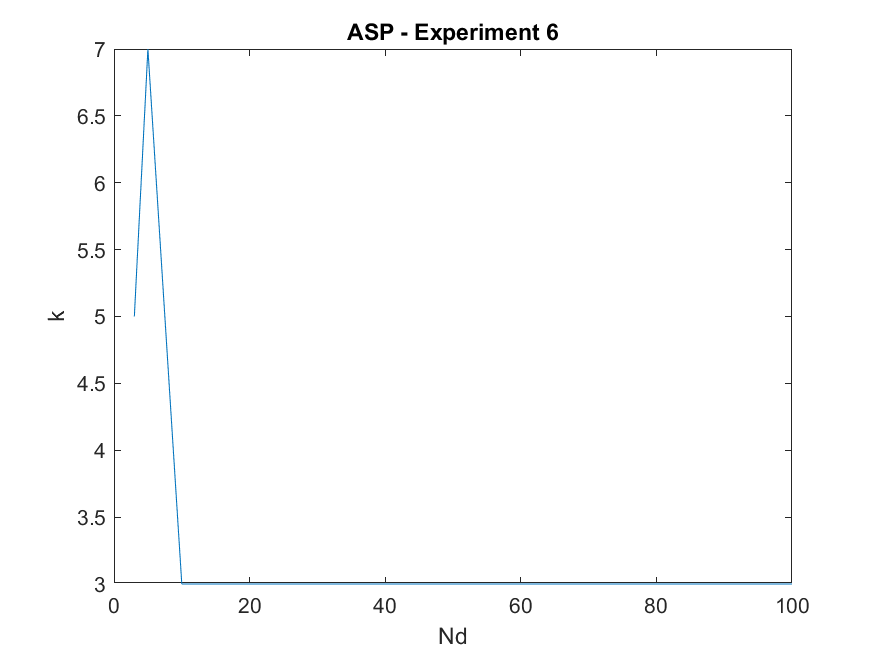
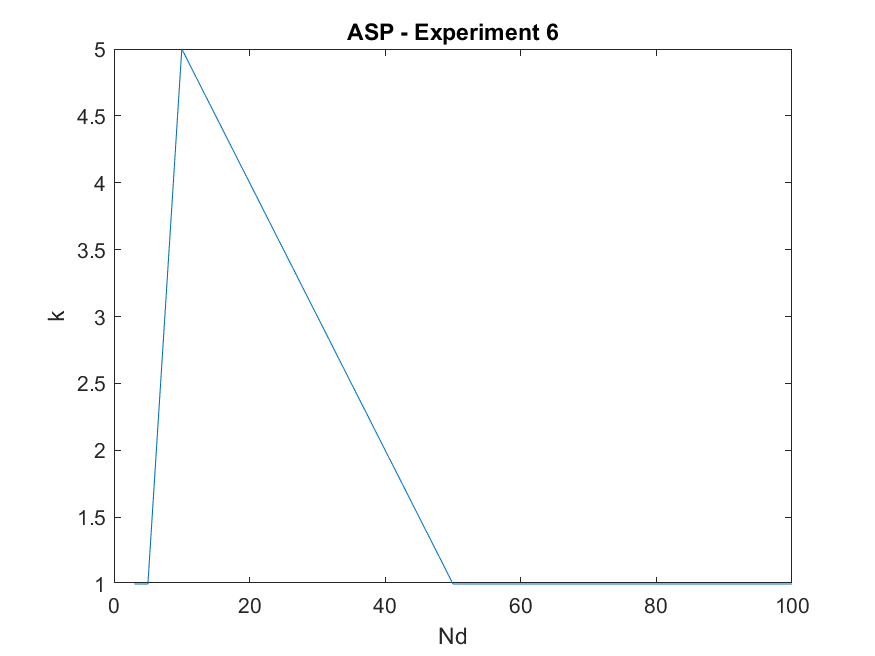
finished exp 3

diff --git a/asp_exp3.m b/asp_exp3.m
@@ -20,57 +20,68 @@ f = 1;
 
 %% effect of the size of test set on the reliability of the empirical error count estimator
 
-sampleSizes = [3 5 10 20 50 100 200 500]
-dimensionSizes = [5, 10, 15]
+sampleSizes = [3 5 10 20 50 100 200 500];
 
-E_train = [];
-E_test = [];
+dims = 5;
+mu1 = randi(5,dims,1);
+mu2 = mu1 + 2*rand(dims,1);
+cova = eye(dims);
 
-for k = 1:length(dimensionSizes) 
-    dims = dimensionSizes(k)
-    mu1 = randi(5,dims,1)
-    if dims == 5
-        mu2 = mu1 + 2*rand(dims,1)
-    elseif dims == 10
-        mu2 = mu1 + 1.6*rand(dims,1)
-    else dims == 15
-        mu2 = mu1 + 1.35*rand(dims,1)
-    end
-    cova = eye(dims)
-    X1_design = mvnrnd(mu1,cova,100);
-    X2_design = mvnrnd(mu2,cova,100);
-    for i = 1:length(sampleSizes)
-        e_train = [];
-        e_test = [];
-        for iters = 1:10
-            Nd = sampleSizes(i);
-            X1_test = mvnrnd(mu1,cova,Nd);
-            X2_test = mvnrnd(mu2,cova,Nd);
-            X = [X1_design; X2_design];
-            train_labels = [zeros(100,1); ones(100,1)];
-            test_labels = [zeros(Nd,1); ones(Nd,1)];
-            mdl = fitcnb(X, train_labels);
-            train_prediction = predict(mdl, X);
-            test_prediction = predict(mdl, [X1_test; X2_test]);
-    
-            e_train(iters) = sum(xor(train_prediction, train_labels))/length(train_prediction);
-            e_test(iters) = sum(xor(test_prediction, test_labels))/length(test_prediction);
-        end
-        E_train(i) = sum(e_train)/iters;
-        E_test(i) = sum(e_test)/iters;
-    end
-    
-    fig = figure
-    plot(sampleSizes(1:7), E_test(1:7))
-    hold on
-    plot(sampleSizes(1:7), E_train(1:7))
-    hold on
-    E_true = [E_test(8), E_test(8), E_test(8), E_test(8), E_test(8), E_test(8), E_test(8)]
-    plot(sampleSizes(1:7), E_true)
-    legend('Test Set Error', 'Training Set Error', 'True Error')
-    title(sprintf("ASP - Experiment 2 -" + " d=" + dims))
-    xlabel('Nd')
-    ylabel('Average Error')
-%     saveas(fig,"./Exp2-results/ErrorComparison_" + dims + ".png")
-%     w = waitforbuttonpress
+X1_design = mvnrnd(mu1,cova,100);
+X2_design = mvnrnd(mu2,cova,100);
+Xd = [X1_design; X2_design];
+train_labels = [zeros(100,1); ones(100,1)];
+
+for i = 1:10
+    X1_test = mvnrnd(mu1,cova,500);
+    X2_test = mvnrnd(mu2,cova,500);
+    Xt{i} = [X1_test; X2_test];
 end
+test_labels = [zeros(500,1); ones(500,1)];
+
+testSizes = [5, 10, 20, 50:50:500];
+E_train_mean = [];
+E_test_mean = [];
+E_train_std = [];
+E_test_std = [];
+
+for i = 1:length(sampleSizes)
+    e_train = [];
+    e_test = [];
+    for iters = 1:10
+        mdl = fitcnb(Xd, train_labels);
+        train_prediction = predict(mdl, Xd);
+        test_prediction = predict(mdl, Xt{i});
+        e_train(iters) = sum(xor(train_prediction, train_labels))/length(train_prediction);
+        e_test(iters) = sum(xor(test_prediction, test_labels))/length(test_prediction);
+    end
+    E_train_mean(i) = sum(e_train)/iters;
+    E_test_mean(i) = sum(e_test)/iters;
+%     E_train_std(i) = (1/9)*sum((e_train.*E_train_mean(i)).^2);
+%     E_test_std(i) = (1/9)*sum((e_test.*E_test_mean(i)).^2);
+    E_train_std(i) = std(e_train);
+    E_test_std(i) = std(e_test);
+end
+
+fig = figure;
+plot(sampleSizes, E_test_mean)
+hold on
+plot(sampleSizes, E_train_mean)
+hold on
+E_true = [E_test_mean(end), E_test_mean(end), E_test_mean(end), E_test_mean(end), E_test_mean(end), E_test_mean(end), E_test_mean(end), E_test_mean(end)];
+plot(sampleSizes, E_true)
+legend('Test Set Error', 'Training Set Error', 'True Error')
+title(sprintf("ASP - Experiment 3 -" + " d=" + dims))
+xlabel('Nd')
+ylabel('Average Error')
+saveas(fig,"./Exp3-results/ErrorComparison_" + dims + ".png")
+
+fig = figure;
+plot(sampleSizes, E_test_std)
+hold on
+plot(sampleSizes, E_train_std)
+legend('Test Set Error', 'Training Set Error')
+title(sprintf("ASP - Experiment 3 -" + " d=" + dims))
+xlabel('Nd')
+ylabel('Error % Standard Deviation')
+saveas(fig,"./Exp3-results/ErrorStandardDeviation_" + dims + ".png")

diff --git a/asp_exp6.m b/asp_exp6.m
@@ -22,7 +22,7 @@ mu2 = [a+d; b+d]
 cova = [c f;f c] % cova is the covariance matrix. didn't use cov since it's a built in function
 
 
-%% Comparing kNN with a gaussian classiefier
+%% Comparing kNN with a gaussian classifier
 X1_test = mvnrnd(mu1,cova,100);
 X2_test = mvnrnd(mu2,cova,100);
 
@@ -38,9 +38,9 @@ for i = 1:length(sampleSizes)
     E_train_mean = [];
     E_test_mean = [];
     if Nd*2 < 51
-        kVals = 3:2:(2*Nd);
+        kVals = 1:2:(2*Nd);
     else
-        kVals = 3:2:51;
+        kVals = 1:2:51;
     end
     for kIter = 1:length(kVals)
         k = kVals(kIter);

diff --git a/asp_exp4.m b/asp_exp4.m
@@ -1,0 +1,24 @@
+%%%%%%%%%%%%%%%%%%%%%%%%%%%%%%%%%%%%%%%%%%%%%%%%%%%%%%%%%%%%%%%
+% @author: Kausthub Krishnamurthy
+% URN:     6562233
+% EEEM007 Advanced Signal Processing - Lab Experiments
+% Filename: asp_exp4.m
+% Date started: 7-May-2019
+%%%%%%%%%%%%%%%%%%%%%%%%%%%%%%%%%%%%%%%%%%%%%%%%%%%%%%%%%%%%%%%
+
+%% Clear everything and setup
+clear all
+close all
+clc
+
+a = 1;
+b = 3; 
+c = 3; 
+d = 3; 
+f = 1;
+
+mu1 = [a;b]
+mu2 = [a+d; b+d]
+cova = [c f;f c] % cova is the covariance matrix. didn't use cov since it's a built in function
+
+%% Comparing kNN with a gaussian classifier
